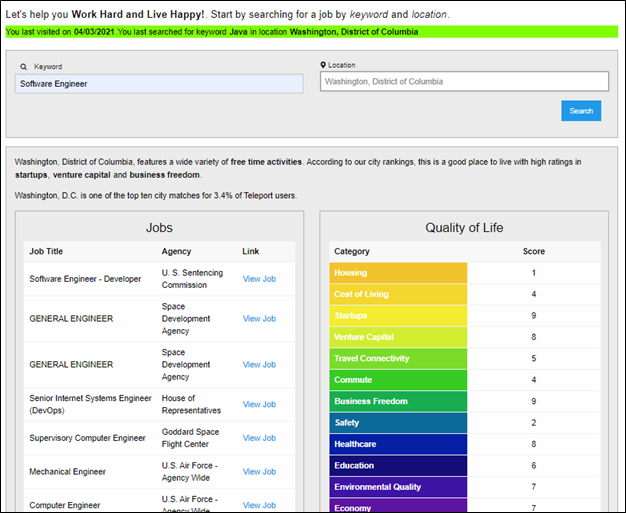
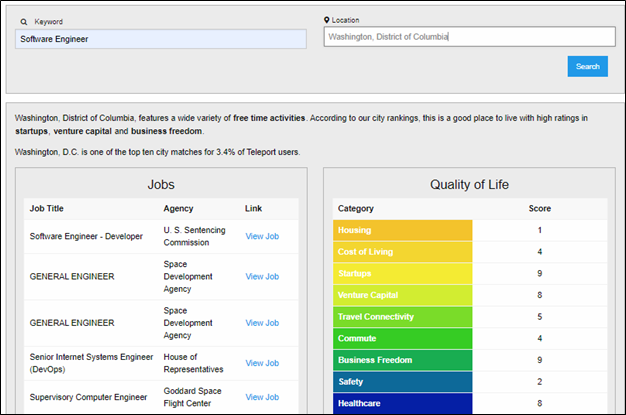
updated app images styling, added new hero image and embedded my name in it, add new contact me bookmark link, made contact me links open when clicked on either text or image

diff --git a/index.html b/index.html
@@ -26,30 +26,41 @@
 
     <div class="row">
       <div class="large-12 columns">
-        <div class="nav-bar right">
+        <div class="nav-bar left">
          <ul class="button-group">
-           <li><a href="#" class="button">Link 1</a></li>
-           <li><a href="#" class="button">Link 2</a></li>
-           <li><a href="#" class="button">Link 3</a></li>
-           <li><a href="#" class="button">Link 4</a></li>
+           <li><a href="#aboutme" class="button">About Me</a></li>
+           <li><a href="#jobsearch" class="button">Jobs App</a></li>
+           <li><a href="#weather" class="button">Weather Dashboard</a></li>
+           <li><a href="#password" class="button">Password Generator</a></li>
+           <li><a href="#quiz" class="button">Quiz App</a></li>
+           <li><a href="#contact" class="button">Contact Me</a></li>
           </ul>
         </div>
-        <h1>Hany Shaalan</h1>
+        <!-- <h1>Hany Shaalan</h1> -->
         <hr/>
       </div>
     </div>
 
+      <div class="row">
+      <div class="large-12 columns">
+    <header class="hero" style="background-image: url(assets/images/hero2.jpg);">
+      <h1> Hany Shaalan</h1>
+      <p id="slogan">Aspiring Web Developer for Hire</p>
+    </header>
+          </div>
+    </div>
 
-    <div class="row">
+    <!-- <div class="row">
       <div class="large-12 columns">
         <img src="/assets/images/hero2.jpg">
+        <h1>Hany Shaalan</h1>
       </div>
-    </div>
+    </div> -->
 
     <div class="row">
       <hr>
       <div class="large-8 columns">
-        <h4>About Me</h4>
+        <h4 id="aboutme">About Me</h4>
         <p>Aspiring Web Developer with 21 years of IT experience including 14 years of hands-on and management experience in the Microsoft SharePoint platform. Extensive skills in SharePoint architecture, Office 365, farm administration, cloud solutions, workflow development, knowledge management portals, business intelligence dashboards and group collaboration solutions. Proven team leadership track record. Very disciplined in Agile and all aspects of SDLC.
           <br>
           <br>
@@ -67,9 +78,9 @@
       <hr>
       <h3>Web Development Portfolio</h3>
       <div class="large-12 columns">
-        <h4>Job Search</h4>
+        <h4 id="jobsearch">Job Search</h4>
         <p>Product of group project #1 app that allows searching for government jobs while viewing quality of life data</p>
-         <p><a href="https://tsilvab.github.io/Homies" target="_blank" ><img class="app-images" src="/assets/images/myproject_homies.png" alt="Job Search App"></a>The  Homies app allows job seekers to search for federal job opportunities in major US cities while receiving detailed quality of life data on those locations. Quality of life data includes 16 categories ranging from housing to education to tolerance level to art and culture and scored on a 10-point scale. <br> 
+         <p><a href="https://tsilvab.github.io/Homies" target="_blank" ><img class="app-images" src="/assets/images/myproject_homies.png" alt="Job Search App"></a>The  Homies app allows job seekers to search for federal job opportunities in major US cities while receiving detailed quality of life data on those locations. Quality of life data includes 16 categories ranging from housing to education to tolerance level to art and culture and scored on a 10-point scale. Local storage was implemented to store the user's last visit date and last search criteria<br> 
           <br> 
           Job search is powered by API from USAJobs.org while quality of life data was provided by Teleport.org API.</p> 
          <br> 
@@ -81,13 +92,13 @@
     <div class="row">
       <hr>
       <div class="large-12 columns">
-        <h4>Weather Dashboard</h4>
-        <p>Get 5-day weather forecast in any city around the world</p>
-        <p><a href="https://hshaalan2.github.io/weather" target="_blank" ><img class="app-images" src="/assets/images/myapp_weather.png" alt="Job Search App"></a>The  Weather Dashboard app leverages API from OpenWeather.org to search weather in all major cities around the globe and retreive detailed 5-day weather. <br> 
+        <h4 id="weather">Weather Dashboard</h4>
+        <p>Get a 5-day weather forecast in any city around the world</p>
+        <p><a href="https://hshaalan2.github.io/weather" target="_blank" ><img class="app-images" src="/assets/images/myapp_weather.png" alt="Job Search App"></a>The  Weather Dashboard app leverages API from OpenWeather.org to search weather in all major cities around the globe and retreive a detailed 5-day weather. Local storage saves the last ten cities searched.<br> 
           <br> 
-          Job search is powered by API from USAJobs.org while quality of life data was provided by Teleport.org API.</p> 
+          Interestingly, a second API had to be used to fetch UV Index data and then conditional statments were utilizied to color the UV value to indicate severity level.</p> 
          <br> 
-         The corresponding GitHub repository can be accessed <a href="https://github.com/tsilvab/Homies" target="_blank">here</a> and the deployed app <a href="https://tsilvab.github.io/Homies" target="_blank">here</a>
+         The corresponding GitHub repository can be accessed <a href="https://github.com/hshaalan2/weather" target="_blank">here</a> and the deployed app <a href="https://hshaalan2.github.io/weather/" target="_blank">here</a>
 
       </div>
     </div>
@@ -95,39 +106,47 @@
     <div class="row">
       <hr>
       <div class="large-12 columns">
-        <h4>Password Generator</h4>
-        <p>Auto generate a strong password based on your selected criteria</p>
-        <p><a href="https://hshaalan2.github.io/passwordgenerator" target="_blank" ><img class="app-images" src="/assets/images/myapp_password.png" alt="Job Search App"></a>text goes here</p>
+        <h4 id="password">Password Generator</h4>
+        <p>Auto generate a strong password based on  selected criteria</p>
+        <p><a href="https://hshaalan2.github.io/passwordgenerator" target="_blank" ><img class="app-images" src="/assets/images/myapp_password.png" alt="Job Search App"></a>The  Password Generator allows a user to select various password criteria including lenght and inclusion of wild characters, upper cases or numbers.<br> 
+          <br> 
+         Alerts, prompts and confirmation dialoges were utilizied to capture input and display output.</p> 
+         <br> 
+         The corresponding GitHub repository can be accessed <a href="https://github.com/hshaalan2/passwordgenerator" target="_blank">here</a> and the deployed app <a href="https://hshaalan2.github.io/passwordgenerator/" target="_blank">here</a>
       </div>
     </div>
 
     <div class="row">
       <hr>
       <div class="large-12 columns">
-        <h4>Quiz</h4>
+        <h4 id="quiz">Quiz</h4>
         <p>Take a timed quiz to test your JavaScript knowledge</p>
-        <p><a href="https://hshaalan2.github.io/quiz" target="_blank" ><img class="app-images" src="/assets/images/myapp_quiz.png" alt="Job Search App"></a>text goes here</p>
+        <p><a href="https://hshaalan2.github.io/quiz" target="_blank" ><img class="app-images" src="/assets/images/myapp_quiz.png" alt="Job Search App"></a>While the deployed app presents the user with a JavaScript Quiz, it could be refactored for any type of quiz.<br> 
+          <br> 
+         The quiz's time limit, questions, answer choices, scoring criteria can be easily customized to suit a variet of puproses. </p> 
+         <br> 
+         The corresponding GitHub repository can be accessed <a href="https://github.com/hshaalan2/quiz" target="_blank">here</a> and the deployed app <a href="https://hshaalan2.github.io/quiz/" target="_blank">here</a>
       </div>
     </div>
 
     <div class="row">
       <div class="large-12 columns">
         <hr>
-        <h4>Contact Me</h4>
+        <h4 id="contact">Contact Me</h4>
         <div class="large-2 columns">
-          <img class="icons" src="assets/images/email_icon_bw.png">
+          <p><a href="mailto:hshaalan@gmail.com" target="_blank" ><img class="icons" src="/assets/images/email_icon_bw.png" alt="Email icon"></a>
           <a href="mailto:hshaalan@gmail.com">Email</a>
         </div>
         <div class="large-2 columns">
-          <img class="icons" src="assets/images/linkedin_icon.jpg">
+          <p><a href="https://www.linkedin.com/in/hany-shaalan-71261535" target="_blank" ><img class="icons" src="assets/images/linkedin_icon.jpg" alt="LinkedIn icon"></a>
           <a href="https://www.linkedin.com/in/hany-shaalan-71261535" target="_blank">LinkedIn</a>
         </div>
         <div class="large-2 columns">
-          <img class="icons" src="assets/images/GitHub_con.png">
+          <p><a href="https://github.com/settings/profile" target="_blank" ><img class="icons" src="assets/images/GitHub_con.png" alt="GitHub icon"></a>
           <a href="https://github.com/settings/profile" target="_blank">GitHub</a>
         </div>
         <div class="large-2 columns">
-          <img class="icons" src="assets/images/PDF_icon.png">
+          <p><a href="assets/files/Hany_Shaalan_Resume.pdf" target="_blank" ><img class="icons" src="assets/images/PDF_icon.png" alt="GitHub icon"></a>
           <a href="/assets/files/Hany_Shaalan_Resume.pdf" target="_blank">Resume</a>
         </div>
         <div class="large-2 columns">

diff --git a/assets/css/style.css b/assets/css/style.css
@@ -10,6 +10,13 @@ body {
 }
 
 /* class for icon images in the bottom of the page*/
+#slogan {
+    background-color:white;
+    color:chocolate;
+    font-size: 25px;
+    font-weight: bold;
+    text-align: center;
+}
 .icons {
     width: 25px;
     height: 25px;
